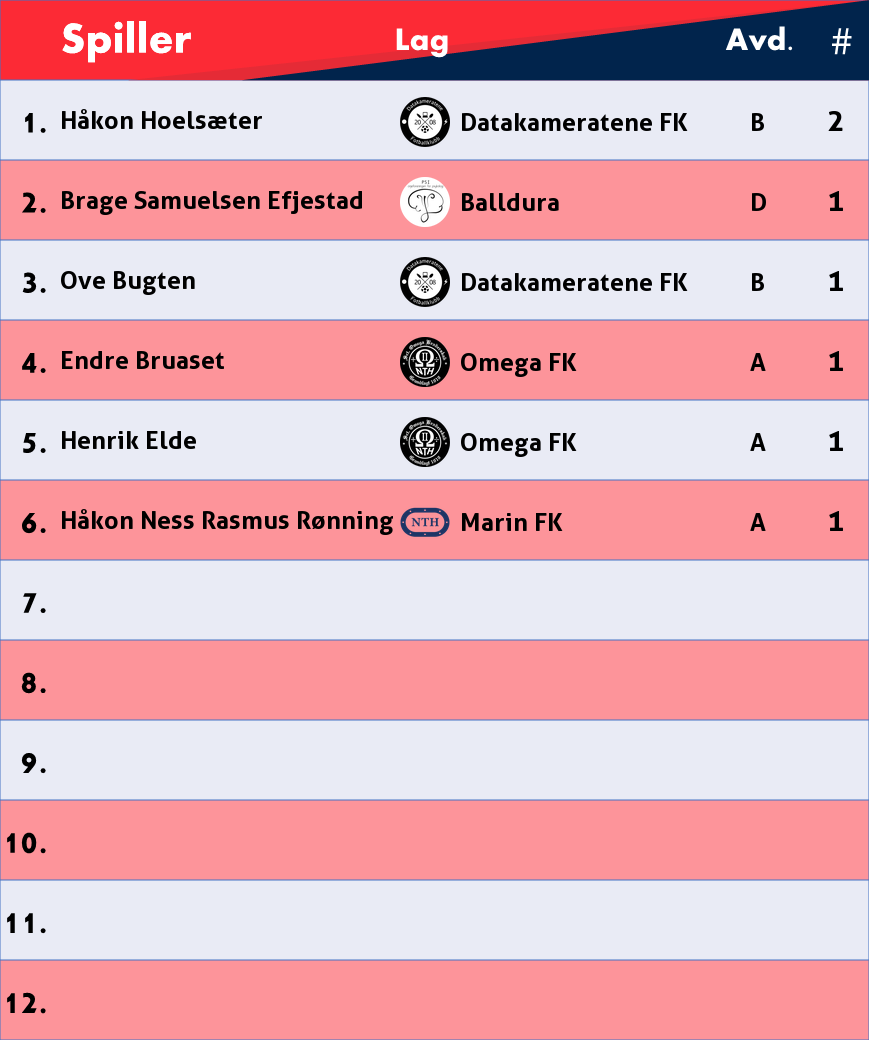
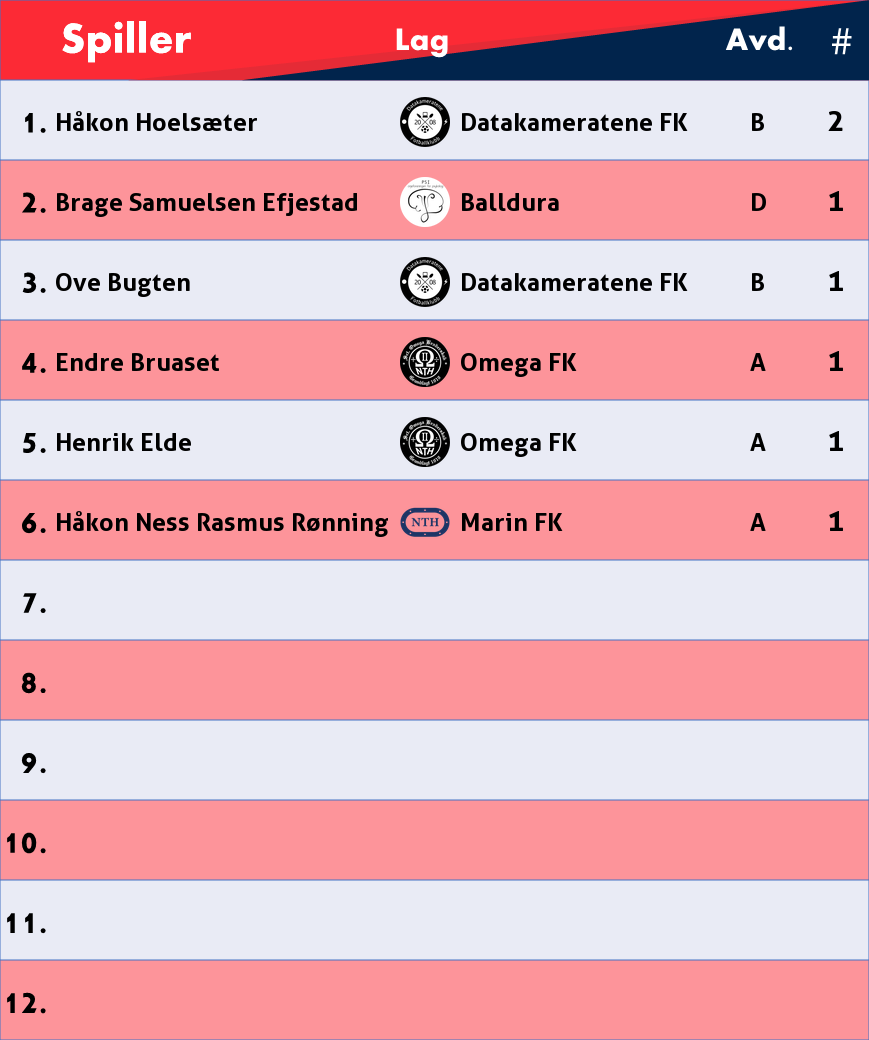
Updated table

diff --git a/Scripts/UpdateStats.py b/Scripts/UpdateStats.py
@@ -220,7 +220,7 @@ def createStatImage(df: pd.DataFrame, index: int):
         logo = Image.open("C:/Users/Simen/tables2/tables/Scripts/Logoer - Runde/" + teamname + ".png")
         logo = logo.resize((50,50), Image.ANTIALIAS)
         img.paste(logo,(400, int(y)-10), mask = logo)
-        draw.text((60, y-2),playername,(0,0,0), font=font)
+        draw.text((55, y),playername,(0,0,0), font=font)
         draw.text((460, y),teamname,(0,0,0), font=font)
         draw.text((750, y),leagues[teamname],(0,0,0),font=font)
         draw.text((827, y-5),str(stat),(0,0,0),font=fontBig)
